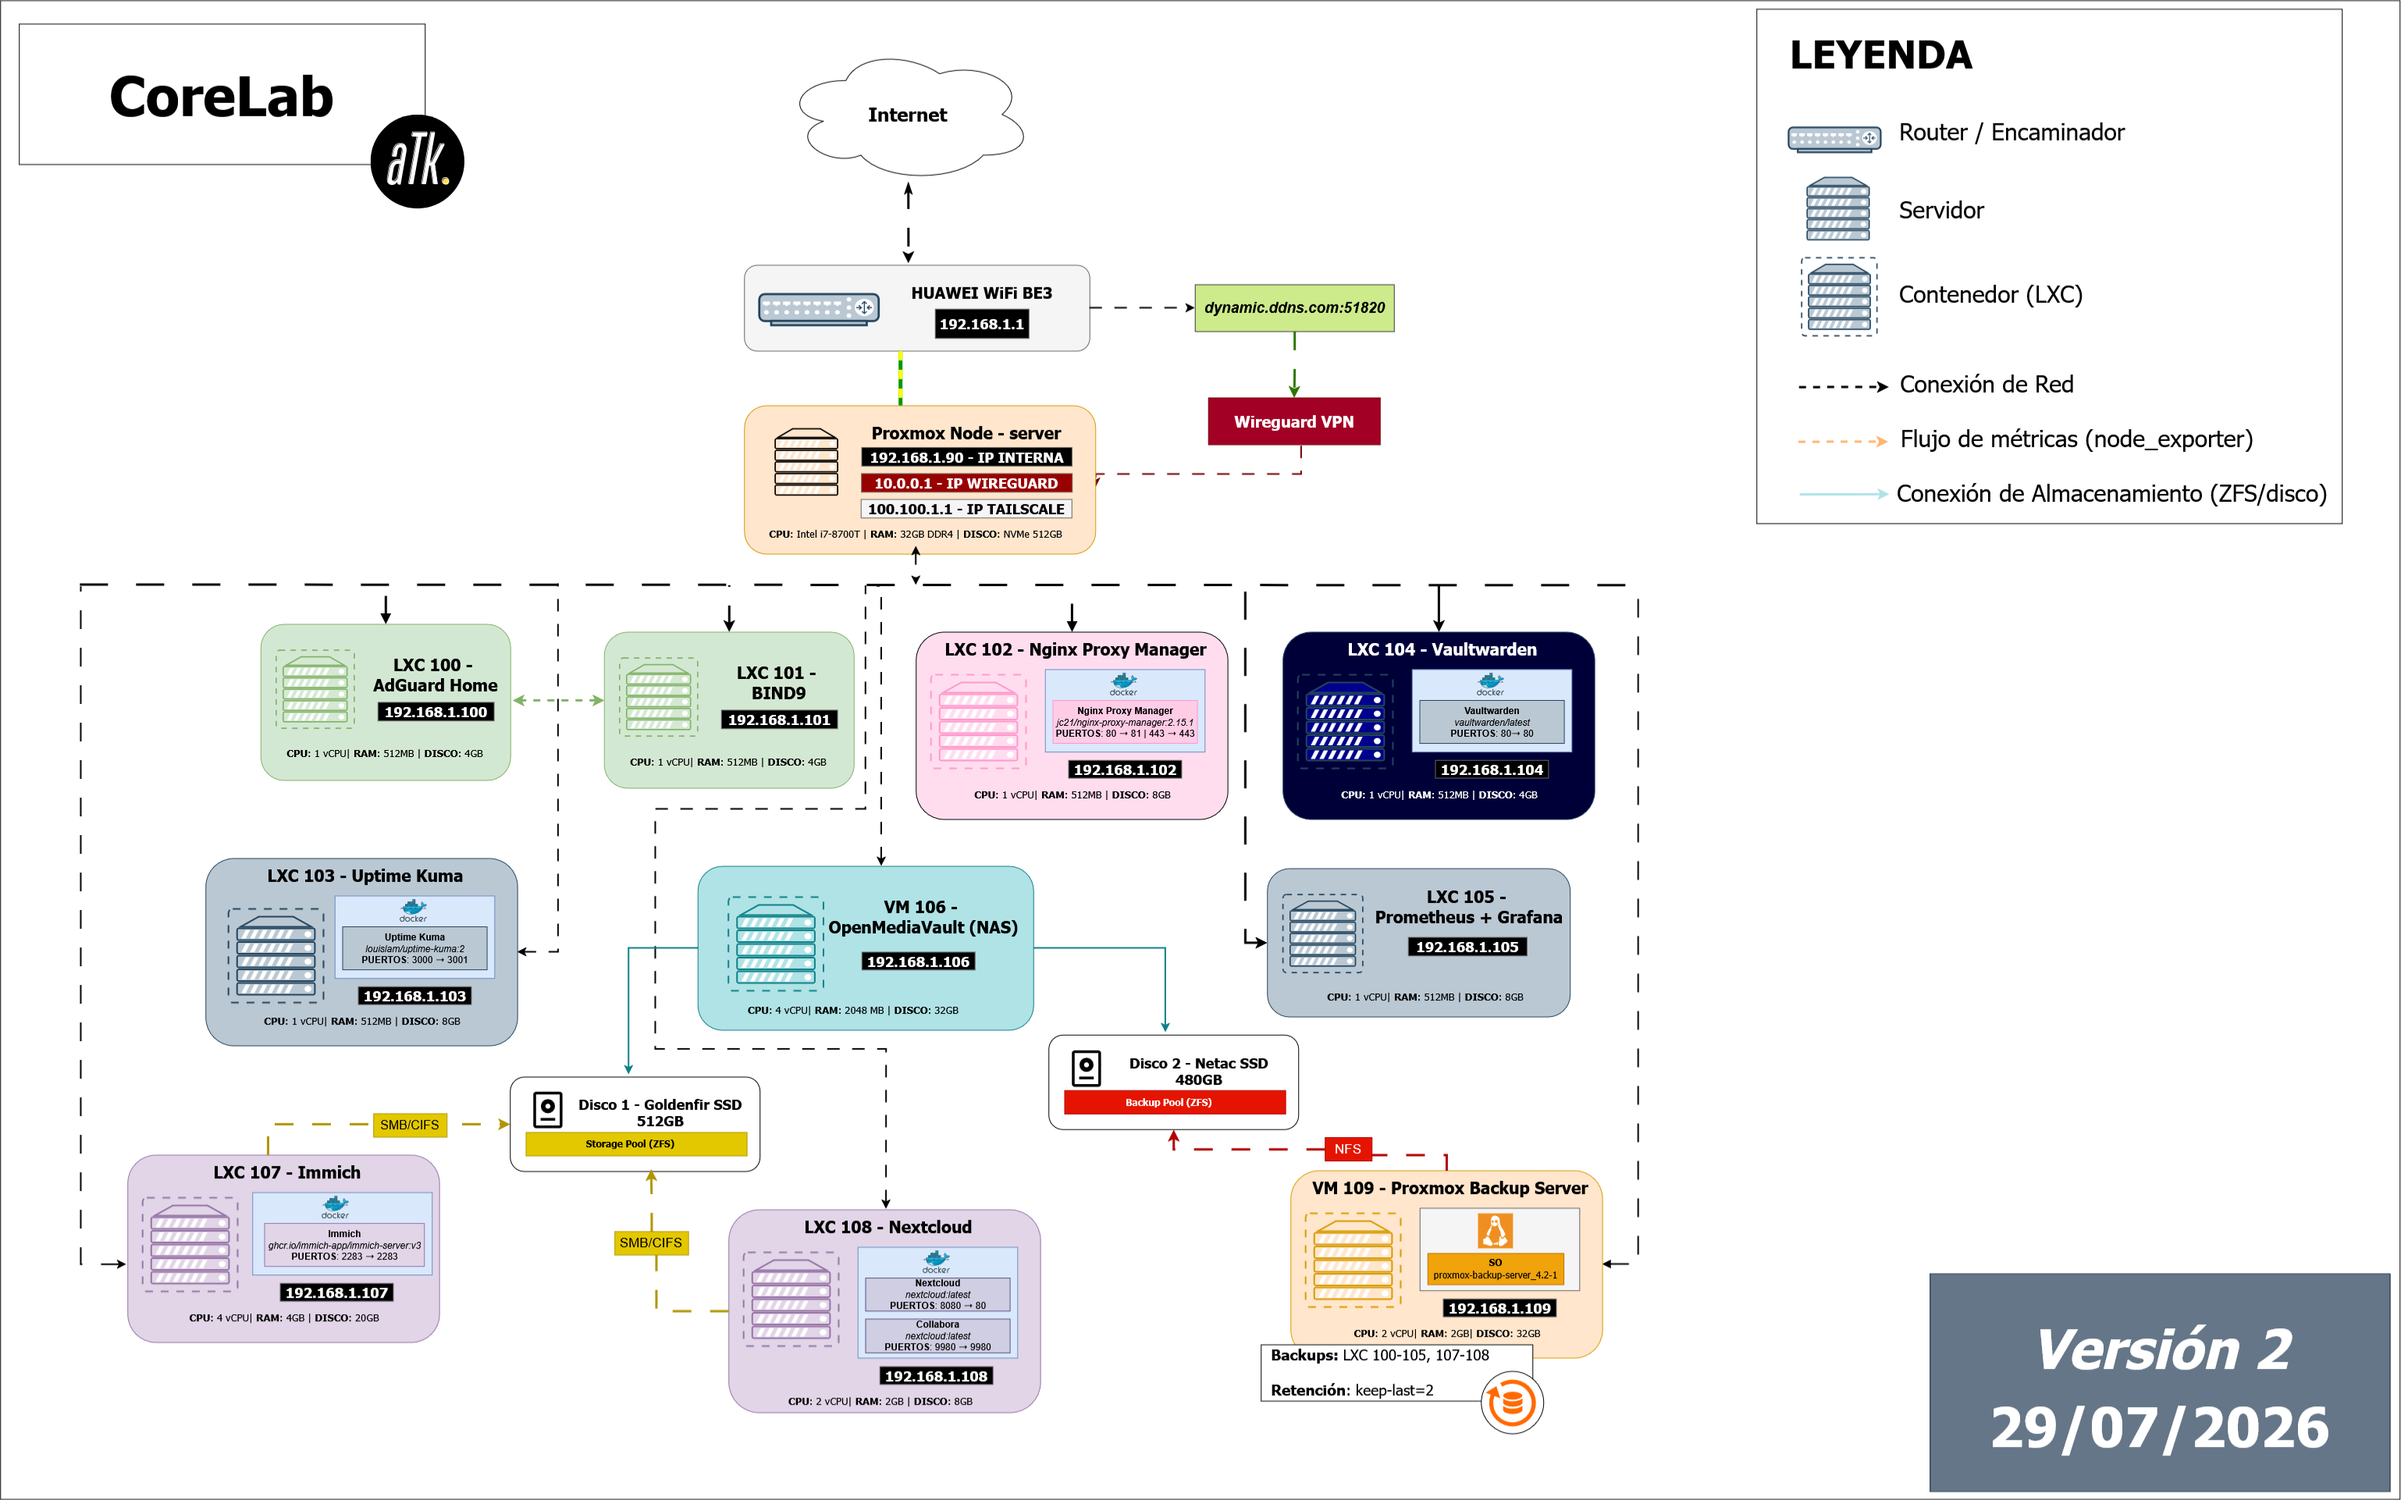
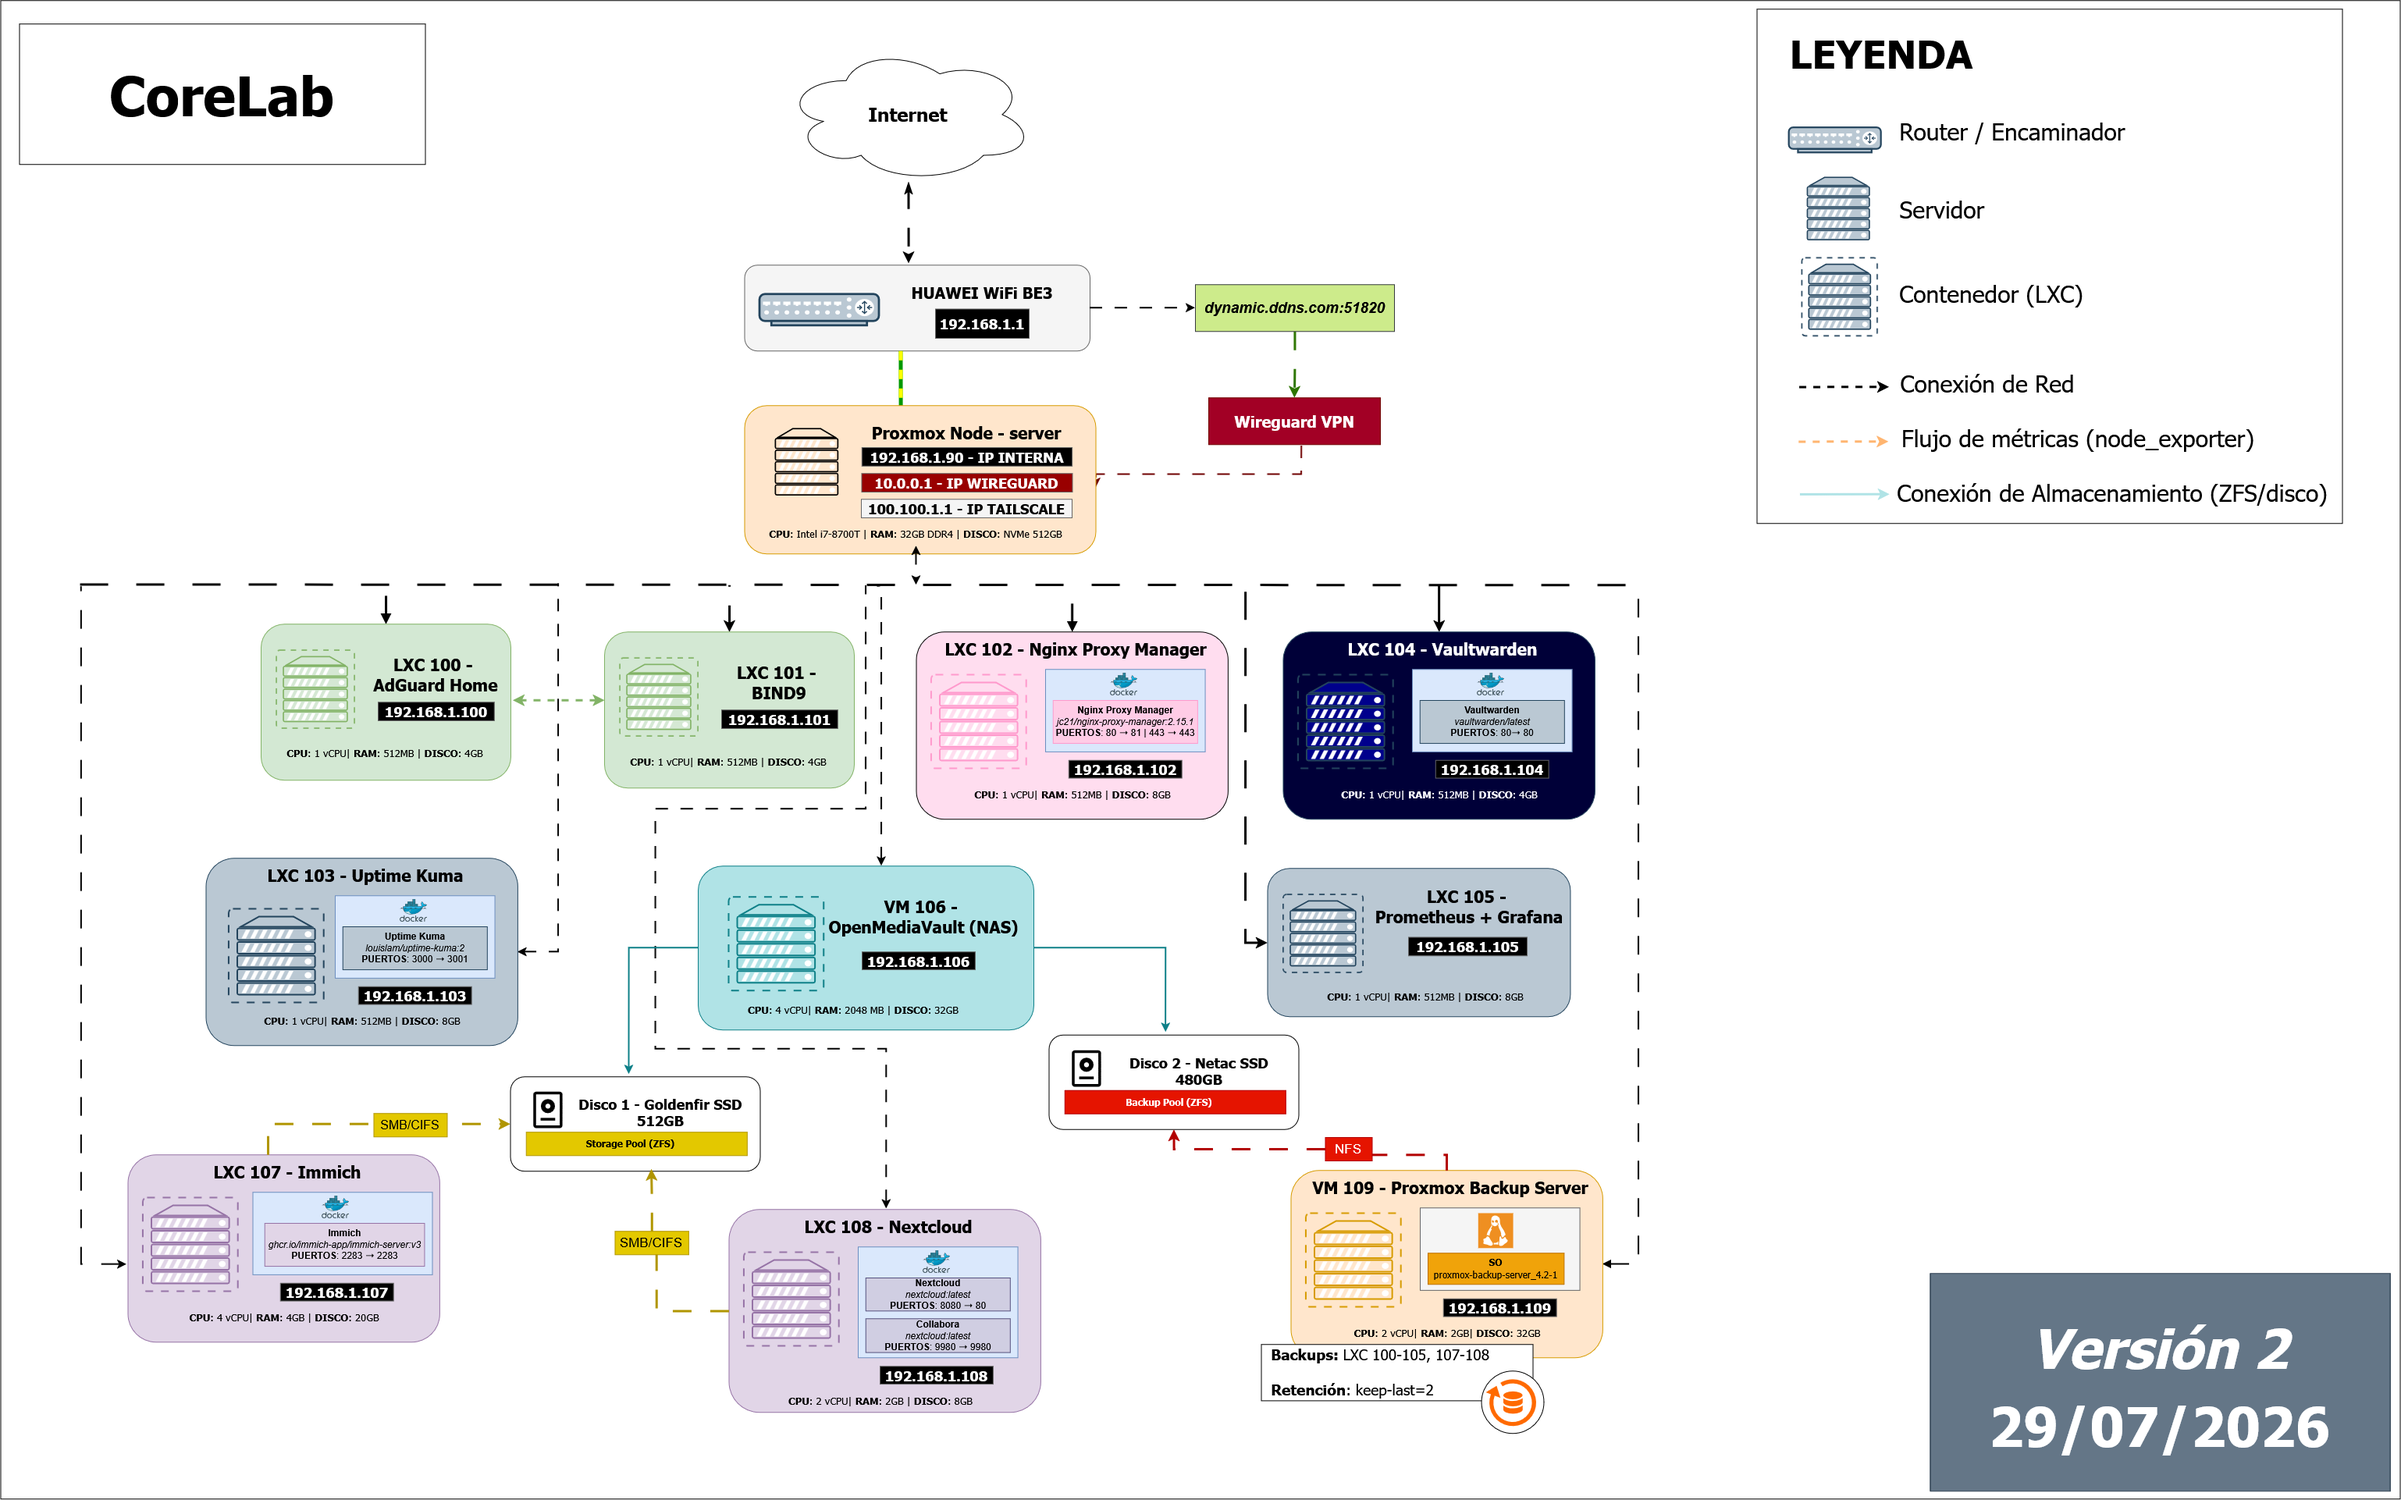
Actualización mínima del Diagrama

diff --git a/README.md b/README.md
@@ -169,4 +169,4 @@ CoreLab/
 
 ---
 
-**Última actualización:** 29/07/2026
+**Última actualización:** 05/08/2026
